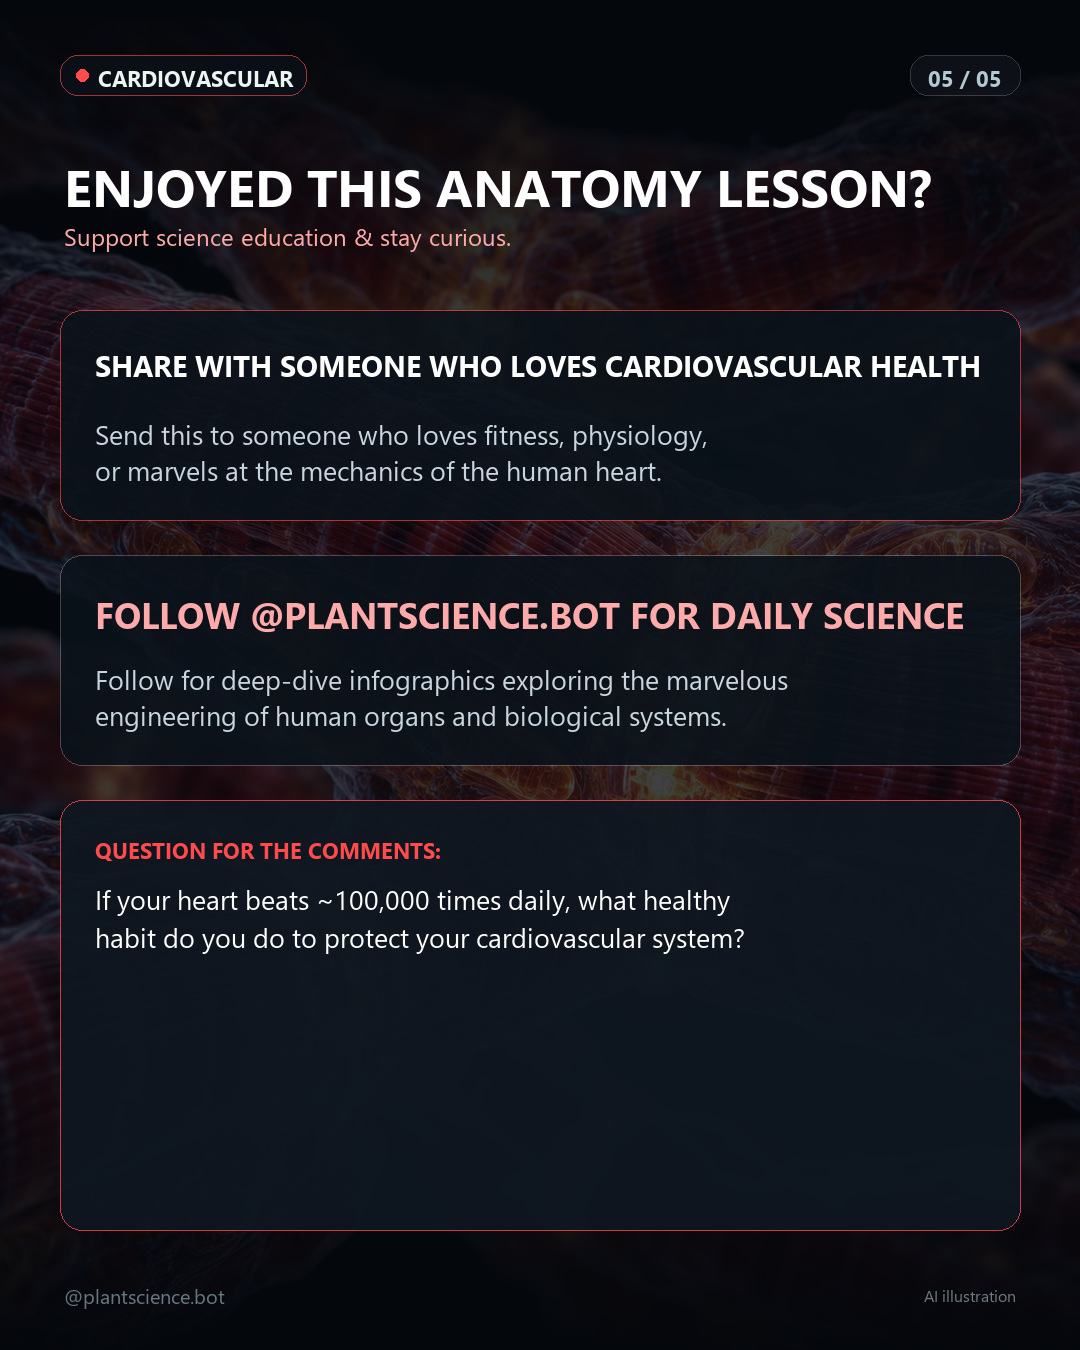
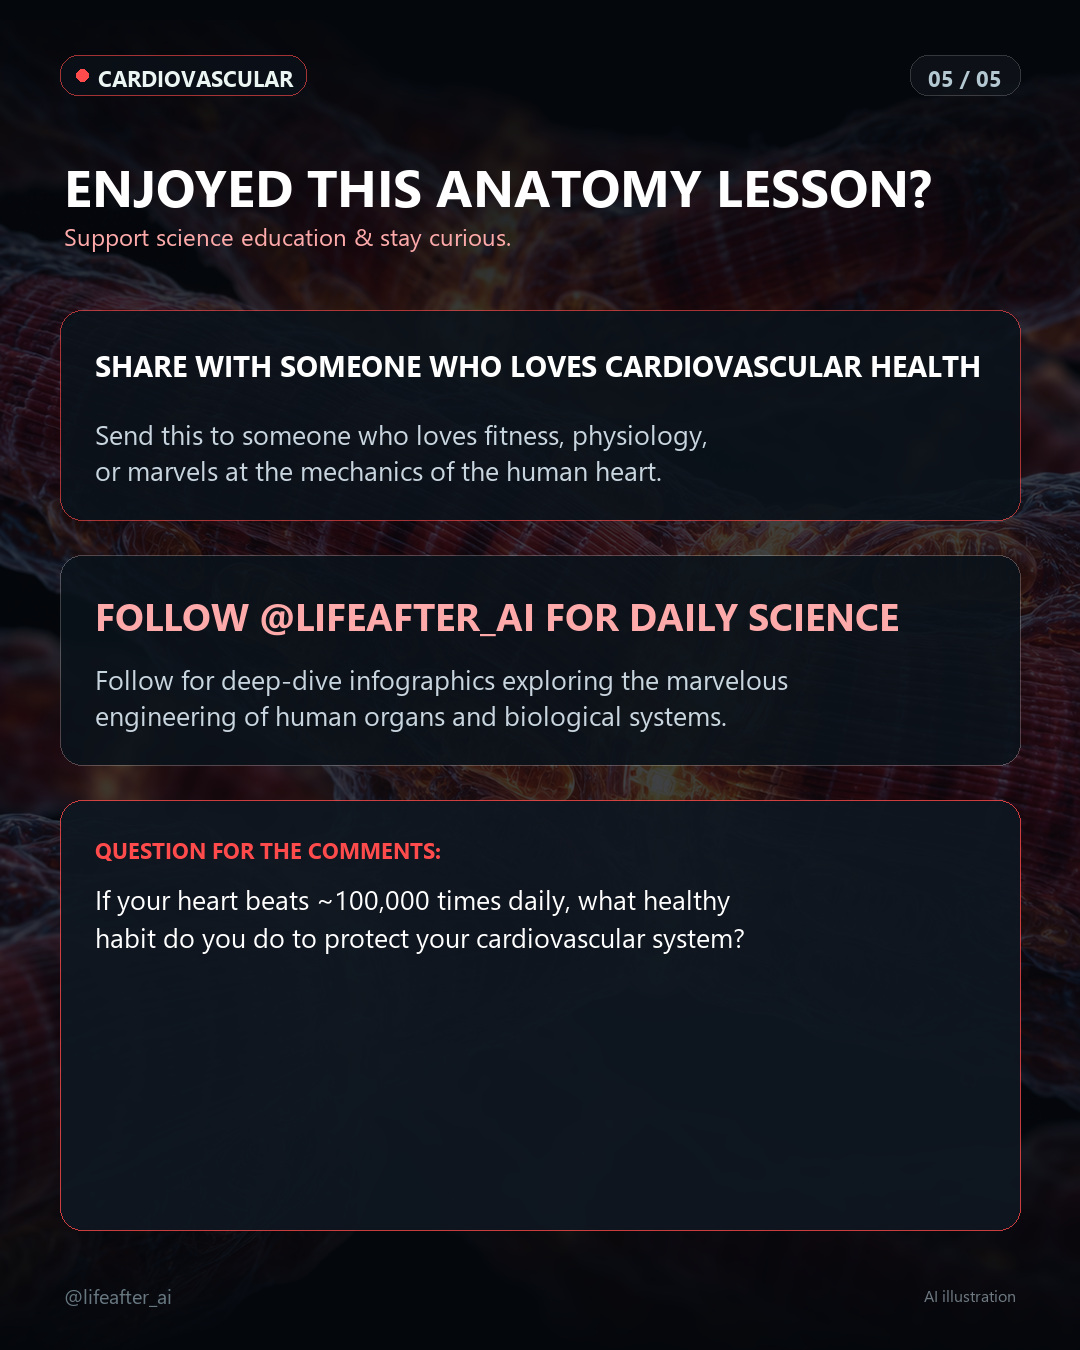
fix(branding): re-render Slide 5 CTA and update preview/generator to @lifeafter_ai

Changed region(s): [[0.0917, 0.4356, 0.8861, 0.4667], [0.0917, 0.9333, 0.1833, 0.9644]]

diff --git a/preview.html b/preview.html
@@ -1197,7 +1197,7 @@
           <div class="ig-app-bar">
             <svg width="20" height="20" viewBox="0 0 24 24" fill="none" stroke="currentColor" stroke-width="2.5"><path d="m15 18-6-6 6-6"/></svg>
             <div class="ig-header-user">
-              plantscience.bot
+              lifeafter_ai
               <svg class="ig-verified-badge" viewBox="0 0 24 24" fill="currentColor"><path d="m9 12 2 2 4-4m6 2a9 9 0 1 1-18 0 9 9 0 0 1 18 0z"/></svg>
             </div>
             <div class="ig-header-icons">
@@ -1217,11 +1217,11 @@
                 </div>
                 <div class="post-author-info">
                   <div class="author-name-row">
-                    plantscience.bot
+                    lifeafter_ai
                     <svg class="ig-verified-badge" viewBox="0 0 24 24" fill="currentColor"><path d="m9 12 2 2 4-4m6 2a9 9 0 1 1-18 0 9 9 0 0 1 18 0z"/></svg>
                   </div>
                   <div class="post-watermark-row" id="postWatermark">
-                    🌿 Plant Science Bot • Educational Series
+                    ✨ Life After AI • Science & Anatomy
                   </div>
                 </div>
               </div>
@@ -1241,7 +1241,7 @@
               <!-- Watermark Overlay Tag -->
               <div class="slide-watermark-tag">
                 <svg width="11" height="11" viewBox="0 0 24 24" fill="currentColor"><path d="M12 2C6.48 2 2 6.48 2 12s4.48 10 10 10 10-4.48 10-10S17.52 2 12 2zm-1 15v-4H8l5-7v4h3l-5 7z"/></svg>
-                <span>@plantscience.bot</span>
+                <span>@lifeafter_ai</span>
               </div>
 
               <!-- Desktop Arrow Buttons -->
@@ -1291,7 +1291,7 @@
 
             <!-- Post Caption with "more" expansion -->
             <div class="post-caption-section">
-              <span class="caption-author">plantscience.bot</span>
+              <span class="caption-author">lifeafter_ai</span>
               <span class="caption-content clamped" id="captionText"></span>
               <button class="more-btn" id="moreBtn">more</button>
             </div>
@@ -1377,7 +1377,7 @@
       "slide_05.jpg"
     ],
     "caption": "Your heart beats 100,000 times a day and pumps 2,000 gallons of blood without taking a single vacation.\r\n\r\nHow cardiac mechanics work:\r\n1. The sinoatrial node fires spontaneous bioelectric pulses to pace your rhythm autonomously.\r\n2. Four valves open and close with pressure differences to prevent backflow.\r\n3. Dedicated coronary arteries deliver 250 ml/min of oxygenated blood to working muscle.\r\n\r\nDid you know your blood vessels would wrap around the Earth more than twice if laid end to end?\r\n\r\n#cardiology #humanheart #anatomy #physiology #hearthealth\r\n\r\nAI illustration",
-    "likeCount": 1691,
+    "likeCount": 3698,
     "schedule": {
       "day": "Sunday",
       "date": "Oct 18, 2026",
@@ -1406,7 +1406,7 @@
       "slide_05.jpg"
     ],
     "caption": "Weighing just 3 pounds, your brain houses 86 billion neurons and 100 trillion synaptic connections.\r\n\r\nInside the human brain:\r\n1. Myelinated axons conduct bioelectric pulses at 120 m/s via saltatory conduction.\r\n2. Vesicles release neurotransmitters, which cross synaptic clefts and bind to receptors.\r\n3. The blood-brain barrier shields 400 miles of capillaries, protecting neural circuits.\r\n\r\nDid you know your brain generates enough electrical power while awake to illuminate a low-wattage LED?\r\n\r\n#neuroscience #brainfacts #neuroanatomy #psychology #biology\r\n\r\nAI illustration",
-    "likeCount": 2365,
+    "likeCount": 2427,
     "schedule": {
       "day": "Monday",
       "date": "Oct 19, 2026",
@@ -1435,7 +1435,7 @@
       "slide_05.jpg"
     ],
     "caption": "Right now, 300 million microscopic bubbles in your chest are trading vital gases across a barrier thinner than a cell.\r\n\r\nInside your lungs:\r\n1. Hundreds of millions of alveoli create a large, folded surface for gas exchange.\r\n2. Oxygen diffuses across a membrane less than 0.5 micrometers thick in just a fraction of a second.\r\n3. Specialized pulmonary surfactant prevents delicate air sacs from collapsing as you exhale.\r\n\r\nTake a deep breath right now—did you realize your lungs had this much surface area?\r\n\r\n#humananatomy #lungs #respiratorysystem #pulmonology #biology\r\n\r\nAI illustration",
-    "likeCount": 3469,
+    "likeCount": 3683,
     "schedule": {
       "day": "Wednesday",
       "date": "Oct 21, 2026",
@@ -1557,7 +1557,7 @@
       const isNext = postIdx === 0;
       postStatusLabel.textContent = `Post #${postIdx + 1} of ${POSTS_DATA.length} • ${isNext ? 'Next to Publish' : 'Queued in Order'}`;
       postScheduleLabel.textContent = `${post.schedule.day}, ${post.schedule.date} • ${post.schedule.time}`;
-      postWatermark.textContent = `🌿 Plant Science Bot • ${post.title}`;
+      postWatermark.textContent = `✨ Life After AI • ${post.title}`;
       postDateTag.textContent = `SCHEDULED • ${post.schedule.day.toUpperCase()}, ${post.schedule.date.toUpperCase()}`;
 
       // Build Slides in Carousel Scroller

diff --git a/build_preview.js b/build_preview.js
@@ -1281,7 +1281,7 @@ const html = `<!DOCTYPE html>
           <div class="ig-app-bar">
             <svg width="20" height="20" viewBox="0 0 24 24" fill="none" stroke="currentColor" stroke-width="2.5"><path d="m15 18-6-6 6-6"/></svg>
             <div class="ig-header-user">
-              plantscience.bot
+              lifeafter_ai
               <svg class="ig-verified-badge" viewBox="0 0 24 24" fill="currentColor"><path d="m9 12 2 2 4-4m6 2a9 9 0 1 1-18 0 9 9 0 0 1 18 0z"/></svg>
             </div>
             <div class="ig-header-icons">
@@ -1301,11 +1301,11 @@ const html = `<!DOCTYPE html>
                 </div>
                 <div class="post-author-info">
                   <div class="author-name-row">
-                    plantscience.bot
+                    lifeafter_ai
                     <svg class="ig-verified-badge" viewBox="0 0 24 24" fill="currentColor"><path d="m9 12 2 2 4-4m6 2a9 9 0 1 1-18 0 9 9 0 0 1 18 0z"/></svg>
                   </div>
                   <div class="post-watermark-row" id="postWatermark">
-                    🌿 Plant Science Bot • Educational Series
+                    ✨ Life After AI • Science & Anatomy
                   </div>
                 </div>
               </div>
@@ -1325,7 +1325,7 @@ const html = `<!DOCTYPE html>
               <!-- Watermark Overlay Tag -->
               <div class="slide-watermark-tag">
                 <svg width="11" height="11" viewBox="0 0 24 24" fill="currentColor"><path d="M12 2C6.48 2 2 6.48 2 12s4.48 10 10 10 10-4.48 10-10S17.52 2 12 2zm-1 15v-4H8l5-7v4h3l-5 7z"/></svg>
-                <span>@plantscience.bot</span>
+                <span>@lifeafter_ai</span>
               </div>
 
               <!-- Desktop Arrow Buttons -->
@@ -1375,7 +1375,7 @@ const html = `<!DOCTYPE html>
 
             <!-- Post Caption with "more" expansion -->
             <div class="post-caption-section">
-              <span class="caption-author">plantscience.bot</span>
+              <span class="caption-author">lifeafter_ai</span>
               <span class="caption-content clamped" id="captionText"></span>
               <button class="more-btn" id="moreBtn">more</button>
             </div>
@@ -1553,7 +1553,7 @@ const html = `<!DOCTYPE html>
       const isNext = postIdx === 0;
       postStatusLabel.textContent = \`Post #\${postIdx + 1} of \${POSTS_DATA.length} • \${isNext ? 'Next to Publish' : 'Queued in Order'}\`;
       postScheduleLabel.textContent = \`\${post.schedule.day}, \${post.schedule.date} • \${post.schedule.time}\`;
-      postWatermark.textContent = \`🌿 Plant Science Bot • \${post.title}\`;
+      postWatermark.textContent = \`✨ Life After AI • \${post.title}\`;
       postDateTag.textContent = \`SCHEDULED • \${post.schedule.day.toUpperCase()}, \${post.schedule.date.toUpperCase()}\`;
 
       // Build Slides in Carousel Scroller

diff --git a/build_carousel_batch.py b/build_carousel_batch.py
@@ -151,7 +151,7 @@ def draw_header(draw, category, slide_str, accent_color=(46, 213, 115)):
 
 
 def draw_footer(draw, next_hint="swipe →", show_ai_note=False):
-    fitted_text(draw, (64, CANVAS_H - 68), "@plantscience.bot", font=f_footer, fill=(130, 150, 160, 200))
+    fitted_text(draw, (64, CANVAS_H - 68), "@lifeafter_ai", font=f_footer, fill=(130, 150, 160, 200))
     if next_hint:
         h_w = f_footer.getbbox(next_hint)[2]
         fitted_text(draw, (CANVAS_W - 64 - h_w, CANVAS_H - 68), next_hint, font=f_footer, fill=(190, 220, 210, 230))
@@ -237,7 +237,7 @@ def build_slide_5(raw_path, out_path, cat, brand_label, share_topic, cta_subtext
 
     card2 = (60, 555, CANVAS_W - 60, 765)
     draw_pill(draw, card2, (10, 18, 26, 230), (255, 255, 255, 60), radius=22, border_width=1)
-    fitted_text(draw, (95, 590), "FOLLOW @PLANTSCIENCE.BOT FOR DAILY SCIENCE", font=f_title, fill=(*light_accent, 255))
+    fitted_text(draw, (95, 590), "FOLLOW @LIFEAFTER_AI FOR DAILY SCIENCE", font=f_title, fill=(*light_accent, 255))
     fitted_text(draw, (95, 660), follow_subtext, font=f_body, fill=(210, 225, 235, 240), spacing=6)
 
     card3 = (60, 800, CANVAS_W - 60, CANVAS_H - 120)
@@ -470,7 +470,7 @@ def render_batch():
             raw_paths[4],
             out_s5,
             post["category"],
-            "@plantscience.bot",
+            "@lifeafter_ai",
             post["share_topic"],
             post["cta_subtext"],
             post["follow_subtext"],

diff --git a/build_human_batch.py b/build_human_batch.py
@@ -98,7 +98,7 @@ def draw_header(draw, category, slide_str, accent_color=(46, 213, 115)):
 
 
 def draw_footer(draw, next_hint="swipe →", show_ai_note=False):
-    draw.text((64, CANVAS_H - 68), "@plantscience.bot", font=f_footer, fill=(130, 150, 160, 200))
+    draw.text((64, CANVAS_H - 68), "@lifeafter_ai", font=f_footer, fill=(130, 150, 160, 200))
     if next_hint:
         h_w = f_footer.getbbox(next_hint)[2]
         draw.text((CANVAS_W - 64 - h_w, CANVAS_H - 68), next_hint, font=f_footer, fill=(190, 220, 210, 230))
@@ -184,7 +184,7 @@ def build_slide_5(raw_path, out_path, cat, brand_label, share_topic, cta_subtext
 
     card2 = (60, 555, CANVAS_W - 60, 765)
     draw_pill(draw, card2, (10, 18, 26, 230), (255, 255, 255, 60), radius=22, border_width=1)
-    draw.text((95, 590), "FOLLOW @PLANTSCIENCE.BOT FOR DAILY SCIENCE", font=f_title, fill=(*light_accent, 255))
+    draw.text((95, 590), "FOLLOW @LIFEAFTER_AI FOR DAILY SCIENCE", font=f_title, fill=(*light_accent, 255))
     draw.text((95, 660), follow_subtext, font=f_body, fill=(210, 225, 235, 240), spacing=6)
 
     card3 = (60, 800, CANVAS_W - 60, CANVAS_H - 120)
@@ -410,7 +410,7 @@ def main():
             raw_s5,
             out_s5,
             post["category"],
-            "@plantscience.bot",
+            "@lifeafter_ai",
             post["share_topic"],
             post["cta_subtext"],
             post["follow_subtext"],

diff --git a/.agents/rules/instagram-profile-branding.md b/.agents/rules/instagram-profile-branding.md
@@ -1,0 +1,12 @@
+# Instagram Profile & Branding Guardrail
+
+## Official Profile & Handle
+- **Profile Name / Username**: `lifeafter_ai`
+- **Instagram Handle**: `@lifeafter_ai`
+- **Instagram Profile URL**: `https://www.instagram.com/lifeafter_ai/`
+
+## Invariant Branding Requirements
+1. **Never use obsolete names**: Under NO circumstance should any slide, watermark, CTA card, footer, or caption use `@plantscience.bot`, `plantscience.bot`, or `plantbot`.
+2. **Slide Footers**: The lower-left slide footer watermark must always display `@lifeafter_ai`.
+3. **Closing Slide CTA**: The follow card on Slide 5 must always display `FOLLOW @LIFEAFTER_AI FOR DAILY SCIENCE`.
+4. **Mockup & Previews**: All preview simulations, top bars, author handles, and caption author tags must be branded as `lifeafter_ai` / `@lifeafter_ai`.
